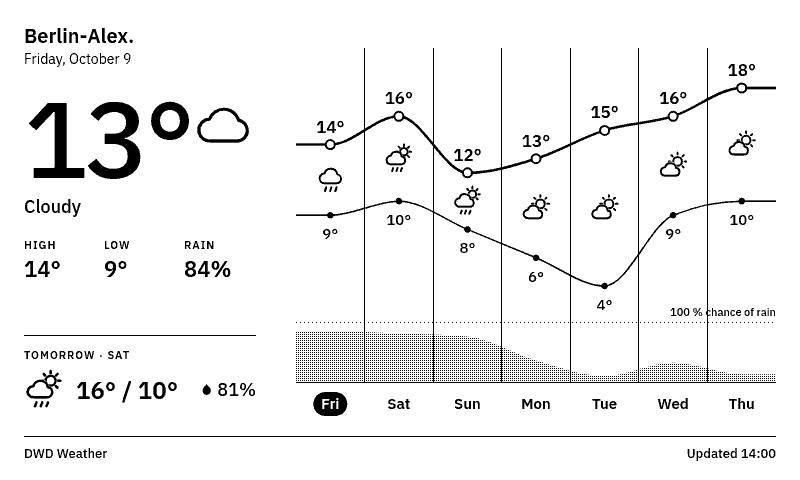
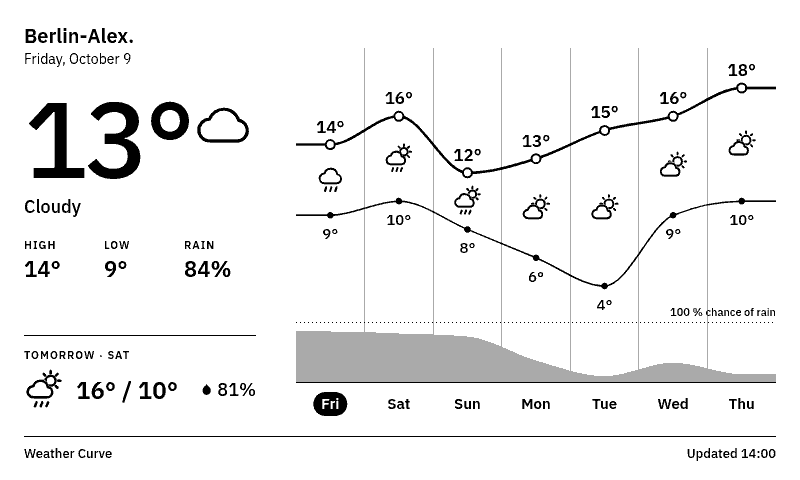
Adapt layouts to portrait and TRMNL X, finalize recipe text
- Pick a design per view slot from its shape: the full design grows taller
  on TRMNL X, portrait gets a stacked today + 7-day curve layout, and the
  list and quadrant designs stretch instead of letterboxing
- Footer reads "Weather Curve"
- Final About text for the recipe page
- Screenshots for portrait and TRMNL X in the README

Changed region(s): [[0.3438, 0.6875, 0.9688, 0.8125], [0.0312, 0.9375, 0.1562, 0.9688]]

diff --git a/README.md b/README.md
@@ -4,9 +4,13 @@ A 7-day weather forecast for [TRMNL](https://trmnl.com) e-paper displays: one te
 
 ![Full layout](docs/full.png)
 
-| Half (vertical) | Half (horizontal) | Quadrant |
+| Portrait | TRMNL X | Half (vertical) |
 |---|---|---|
-| ![Half vertical](docs/half_vertical.png) | ![Half horizontal](docs/half_horizontal.png) | ![Quadrant](docs/quadrant.png) |
+| ![Portrait](docs/portrait.png) | ![TRMNL X](docs/trmnl-x.png) | ![Half vertical](docs/half_vertical.png) |
+
+| Half (horizontal) | Quadrant |
+|---|---|
+| ![Half horizontal](docs/half_horizontal.png) | ![Quadrant](docs/quadrant.png) |
 
 ## Features
 
@@ -15,7 +19,7 @@ A 7-day weather forecast for [TRMNL](https://trmnl.com) e-paper displays: one te
 - German or English labels (or follow the TRMNL account language)
 - Celsius or Fahrenheit (Fahrenheit also switches to a 12-hour clock)
 - Flat gray on grayscale screens, a dot pattern on black-and-white screens
-- All four TRMNL layouts: full, half horizontal, half vertical, quadrant
+- All four TRMNL layouts (full, half horizontal, half vertical, quadrant), adapting to portrait and to TRMNL X
 
 ## Data
 
